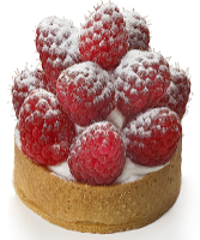
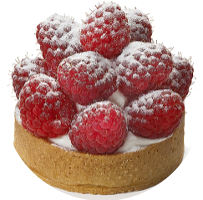
Products and categories

diff --git a/src/main/webapp/resources/css/style.css b/src/main/webapp/resources/css/style.css
@@ -224,7 +224,7 @@ nav.cl-effect-13 a {
 	text-align:center;
 }
 .banner-info1-grid img{
-	border:2px solid #fff;
+	border:0px solid #fff;
 	border-radius:100%;
 	margin:0 auto;
 }

diff --git a/src/main/java/com/delice/controller/MainController.java b/src/main/java/com/delice/controller/MainController.java
@@ -1,10 +1,14 @@
 package com.delice.controller;
 
+import java.util.HashSet;
 import java.util.List;
+import java.util.Random;
+import java.util.Set;
 
 import javax.servlet.http.HttpServletRequest;
 import javax.servlet.http.HttpServletResponse;
 
+import org.apache.tools.ant.Project;
 import org.springframework.beans.factory.annotation.Autowired;
 import org.springframework.stereotype.Controller;
 import org.springframework.ui.ModelMap;
@@ -80,8 +84,7 @@ public class MainController {
 		// returning the relative view home !
 		mav.setViewName("profil");
 		return mav;
-	} 
-
+	}
 
 	@RequestMapping(value = "/{name:.+}", method = RequestMethod.GET)
 	public ModelAndView listOfProducts(@PathVariable("name") String name) {
@@ -95,24 +98,41 @@ public class MainController {
 		return modelAndView;
 	}
 
-	@RequestMapping(value = "/", method = RequestMethod.GET) 
+	@RequestMapping(value = "/", method = RequestMethod.GET)
 	public ModelAndView index(ModelMap pmap) {
 		return new ModelAndView("index");
 	}
 
-	@RequestMapping(value = "/weare", method = RequestMethod.GET)
+	@RequestMapping(value = "/nous-somme", method = RequestMethod.GET)
 	public String weare(ModelMap pmap) {
 		return "weare";
 	}
 
-	@RequestMapping(value = "/index", method = RequestMethod.GET)
-	public String home(ModelMap pmap) {
-		return "index";
+	@RequestMapping(value = "/acceuil", method = RequestMethod.GET)
+	public ModelAndView home(ModelMap pmap) {
+		// get 8 categories if there is:
+		List<Product> products = productServiceImpl.getAllProducts();
+
+		ModelAndView mav = new ModelAndView();
+		// all projects
+		mav.addObject("product1", products.get(new Random().nextInt(products.size())));
+		mav.addObject("product2", products.get(new Random().nextInt(products.size())));
+		mav.addObject("product3", products.get(new Random().nextInt(products.size())));
+
+		mav.setViewName("index");
+		return mav;
 	}
 
-	@RequestMapping(value = "/galery", method = RequestMethod.GET)
-	public String galery(ModelMap pmap) {
-		return "galery";
+	@RequestMapping(value = "/galerie-photo", method = RequestMethod.GET)
+	public ModelAndView galery(ModelMap pmap) {
+		ModelAndView galery = new ModelAndView("galery");
+
+		List<Product> products = productServiceImpl.getAllProducts();
+		if (products.size() == 0)
+			return new ModelAndView("403");
+
+		galery.addObject("products", products);
+		return galery;
 	}
 
 	@RequestMapping(value = "/mail", method = RequestMethod.GET)

diff --git a/src/main/java/com/delice/model/Product.java b/src/main/java/com/delice/model/Product.java
@@ -27,7 +27,7 @@ public class Product implements Serializable {
 
     private String description_long_product;
 
-    private float description_short_product;
+    private String description_short_product;
 
     private String details_product;
 
@@ -82,11 +82,11 @@ public class Product implements Serializable {
         this.description_long_product = description_long_product;
     }
 
-    public float getDescription_short_product() {
+    public String getDescription_short_product() {
         return this.description_short_product;
     }
 
-    public void setDescription_short_product(float description_short_product) {
+    public void setDescription_short_product(String description_short_product) {
         this.description_short_product = description_short_product;
     }
 

diff --git a/README.md b/README.md
@@ -1,0 +1,1 @@
+# Delice
